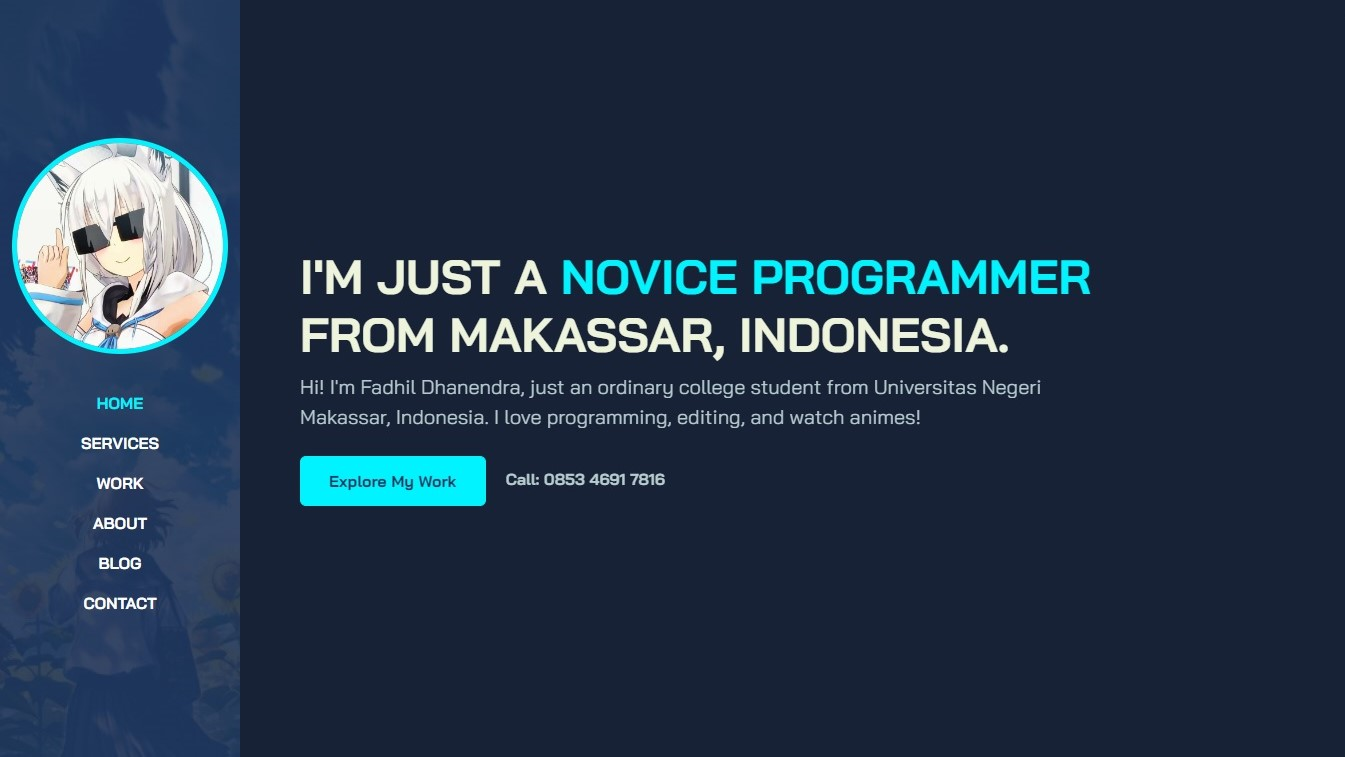
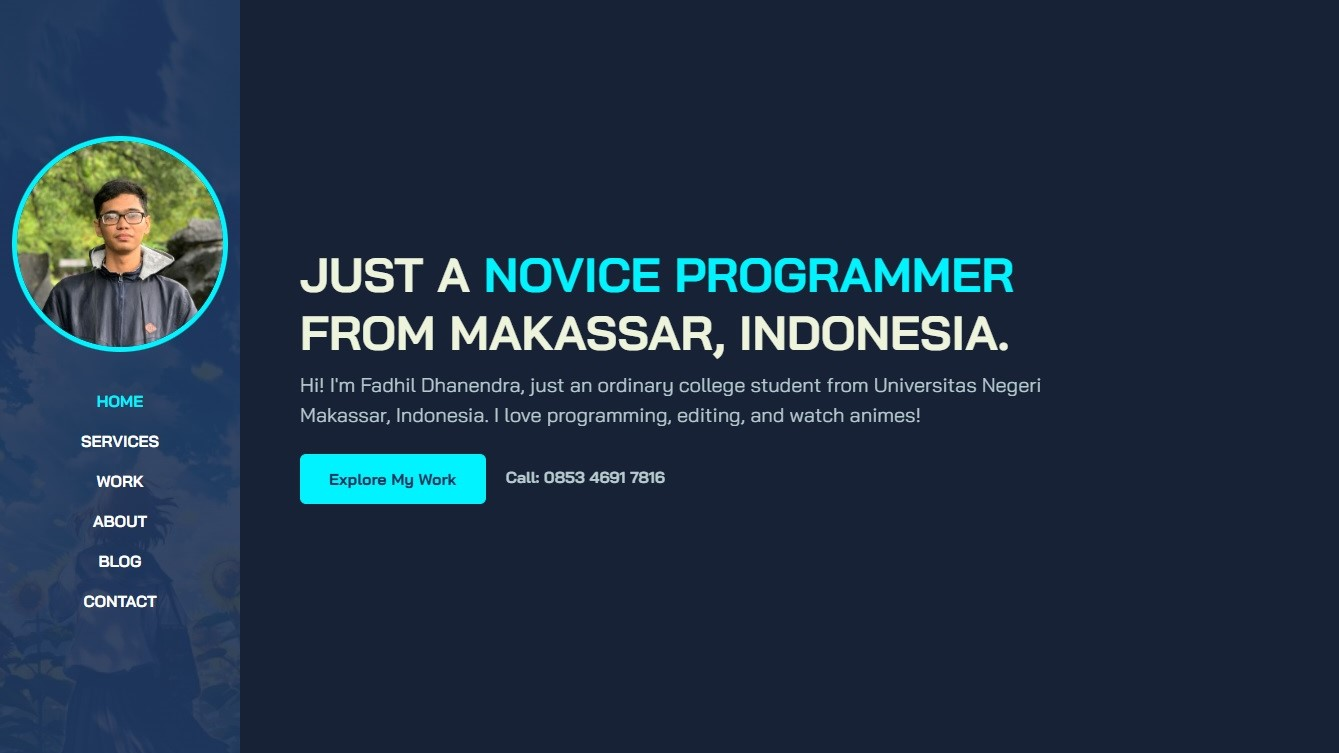
Mengubah foto profil, dan penyesuaian konten

diff --git a/index.html b/index.html
@@ -3,7 +3,7 @@
 <head>
 
     <!-- Icon -->
-    <link rel="icon" type="image/png" sizes="16x16" href="./assets/images/profile.jpg">
+    <link rel="icon" type="image/png" sizes="16x16" href="./assets/images/profile1.jpg">
 
     <meta charset="UTF-8">
     <meta http-equiv="X-UA-Compatible" content="IE=edge">
@@ -135,22 +135,8 @@
                     </div>
                 </div>
 
+                
                 <div class="row gy-4">
-                    <div class="col-md-6" data-aos="fade-up" data-aos-delay="300">
-                        <div class="card-custom rounded-4 bg-base shadow-effect">
-                            <div class="card-custom-image rounded-4">
-                                <img class="rounded-4" src="./assets/images/work1.jpg" alt="">
-                            </div>
-                            <div class="card-custom-content p-4">
-                                <h4>PTIK B's Home Website</h4>
-                                <p class="text-brand mb-2">Personal Project</p>
-                                <p class="mb-2">Build With:</p>
-                                <p class="languagefont"><img class="languageicon" src="https://skillicons.dev/icons?i=html"> &nbsp;HTML &nbsp;&nbsp;&nbsp;<img class="languageicon" src="https://skillicons.dev/icons?i=css"> &nbsp;CSS &nbsp;&nbsp;&nbsp;<img class="languageicon" src="https://skillicons.dev/icons?i=js"> &nbsp;JavaScript &nbsp;&nbsp;&nbsp;<img class="languageicon" src="assets/images/materialize.png"> &nbsp;Bootstrap</p>
-                                <a href="https://ptikb22v1.netlify.app/" target="_blank" class="link-custom">See Live</a>
-                            </div>
-                        </div>
-                    </div>
-
                     <div class="col-md-6" data-aos="fade-up" data-aos-delay="300">
                         <div class="card-custom rounded-4 bg-base shadow-effect">
                             <div class="card-custom-image rounded-4">
@@ -169,10 +155,25 @@
                     <div class="col-md-6" data-aos="fade-up" data-aos-delay="300">
                         <div class="card-custom rounded-4 bg-base shadow-effect">
                             <div class="card-custom-image rounded-4">
+                                <img class="rounded-4" src="./assets/images/work1.jpg" alt="">
+                            </div>
+                            <div class="card-custom-content p-4">
+                                <h4>PTIK B's Home Website</h4>
+                                <p class="text-brand mb-2">Personal Project</p>
+                                <p class="mb-2">Build With:</p>
+                                <p class="languagefont"><img class="languageicon" src="https://skillicons.dev/icons?i=html"> &nbsp;HTML &nbsp;&nbsp;&nbsp;<img class="languageicon" src="https://skillicons.dev/icons?i=css"> &nbsp;CSS &nbsp;&nbsp;&nbsp;<img class="languageicon" src="https://skillicons.dev/icons?i=js"> &nbsp;JavaScript &nbsp;&nbsp;&nbsp;<img class="languageicon" src="assets/images/materialize.png"> &nbsp;Bootstrap</p>
+                                <a href="https://ptikb22v1.netlify.app/" target="_blank" class="link-custom">See Live</a>
+                            </div>
+                        </div>
+                    </div>
+
+                    <div class="col-md-6" data-aos="fade-up" data-aos-delay="300">
+                        <div class="card-custom rounded-4 bg-base shadow-effect">
+                            <div class="card-custom-image rounded-4">
                                 <img class="rounded-4" src="./assets/images/work3.jpg" alt="">
                             </div>
                             <div class="card-custom-content p-4">
-                                <h4>My Profile Website</h4>
+                                <h4>PTIK B's Home Website v2</h4>
                                 <p class="text-brand mb-2">Personal Project</p>
                                 <p class="mb-2">Build With:</p>
                                 <p class="languagefont"><img class="languageicon" src="https://skillicons.dev/icons?i=html"> &nbsp;HTML &nbsp;&nbsp;&nbsp;<img class="languageicon" src="https://skillicons.dev/icons?i=css"> &nbsp;CSS &nbsp;&nbsp;&nbsp;<img class="languageicon" src="https://skillicons.dev/icons?i=js"> &nbsp;JavaScript &nbsp;&nbsp;&nbsp;<img class="languageicon" src="https://skillicons.dev/icons?i=bootstrap"> &nbsp;Bootstrap</p>
@@ -192,7 +193,7 @@
                 <div class="row pb-4" data-aos="fade-up" data-aos-delay="200">
                     <div class="col-lg-8">
                         <h6 class="text-brand">ABOUT</h6>
-                        <h1>My Education & Experience</h1>
+                        <h1>My Education & Certifications</h1>
                     </div>
                 </div>
 
@@ -221,14 +222,14 @@
                     </div>
 
                     <div class="col-lg-6">
-                        <h3 class="mb-4" data-aos="fade-up" data-aos-delay="200">Experience</h3>
+                        <h3 class="mb-4" data-aos="fade-up" data-aos-delay="200">Certifications</h3>
                         <div class="row gy-4">
 
                             <div class="col-12" data-aos="fade-up" data-aos-delay="300">
                                 <div class="bg-base p-4 rounded-4 shadow-effect">
-                                    <h4>Administrative Staff</h4>
-                                    <p class="text-brand mb-2">Politeknik Pertanian Negeri Samarinda (2020)</p>
-                                    <p class="mb-0">Performs necessary bookkeeping activities and maintains weekly schedules of employees. They provide support to a company and act as the point of contact for all employees.</p>
+                                    <h4>Junior Web Developer</h4>
+                                    <p class="text-brand mb-2">Digital Talent Scholarship (2024)</p>
+                                    <p class="mb-0">Learned fundamental web development skills, including HTML, CSS, JavaScript, and other essential tools for building responsive and interactive websites.</p>
                                 </div>
                             </div>
 
@@ -345,7 +346,7 @@
                     </div>
                     <div class="col-auto">
                         <div class="social-links">
-                            <a href="https://twitter.com/FadhilDhanendra" target="_blank"><i class="lab la-twitter"></i></a>
+                            <!-- <a href="https://twitter.com/FadhilDhanendra" target="_blank"><i class="lab la-twitter"></i></a> -->
                             <a href="https://www.instagram.com/fadhildhanendra.exe/" target="_blank"><i class="lab la-instagram"></i></a>
                             <a href="https://api.whatsapp.com/send?phone=6285346917816" target="_blank"><i class="lab la-whatsapp"></i></a>
                             <a href="https://www.linkedin.com/in/fadhil-dhanendra/" target="_blank"><i class="lab la-linkedin"></i></a>
